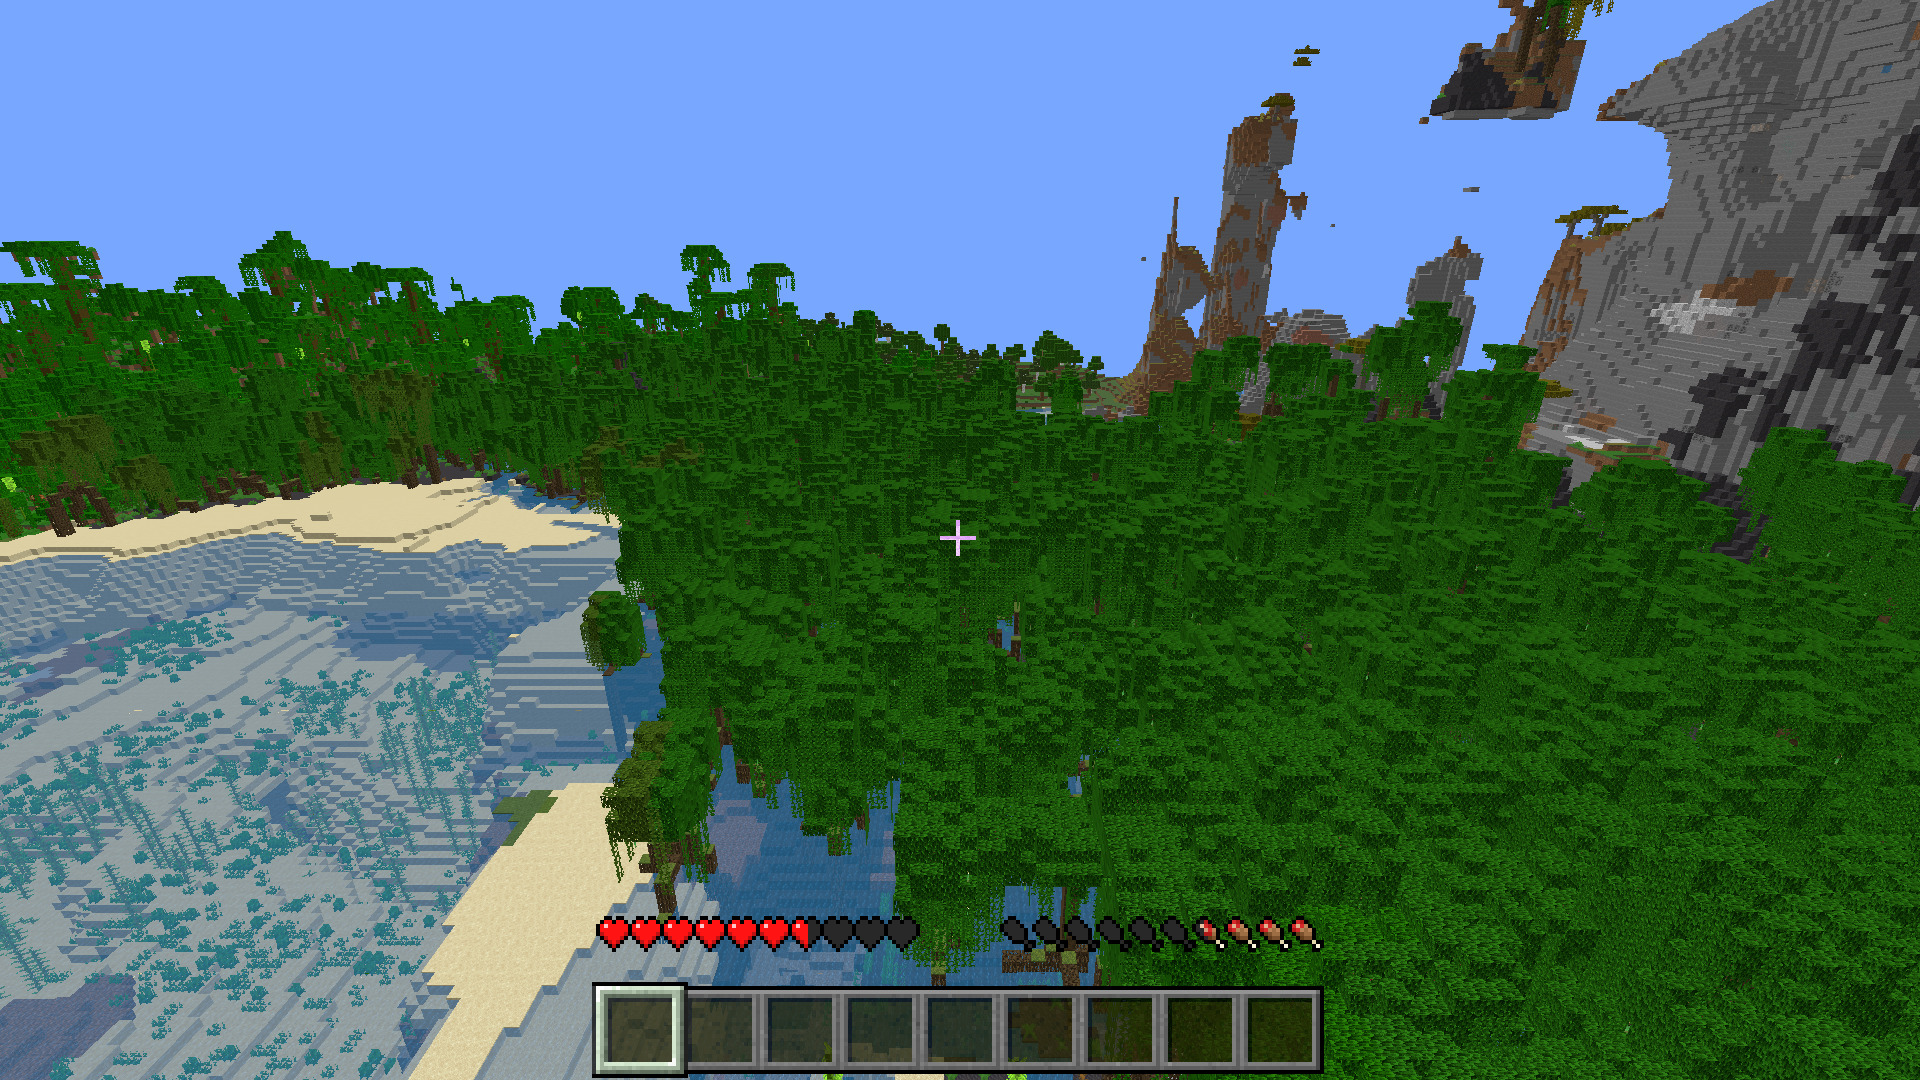
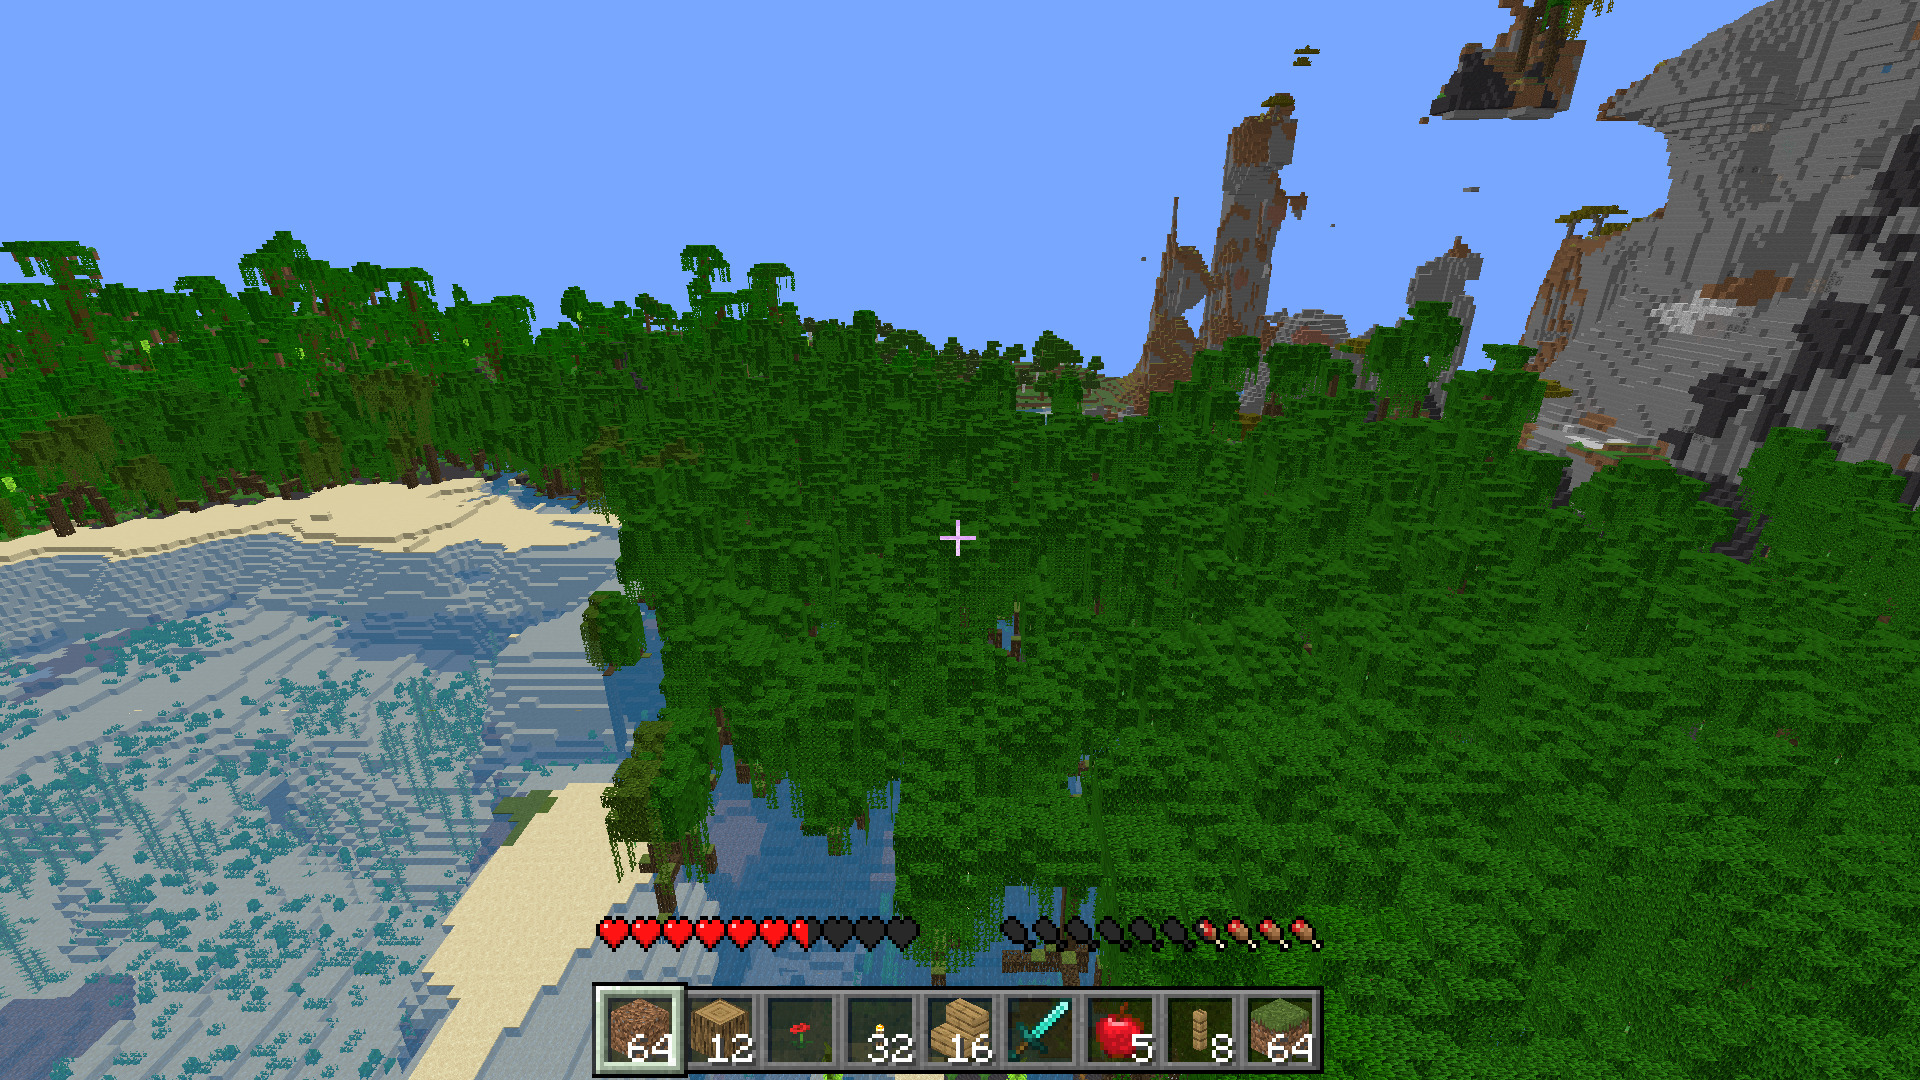
Record Step 9 of M5
Its Results and Deviations 37 to 39 in the plan, where it stands in STATUS, and the hotbar in the README, whose
HUD picture is retaken now that the hotbar has items in it.

diff --git a/docs/STATUS.md b/docs/STATUS.md
@@ -49,10 +49,13 @@ _Last updated: 2026-11-01._
   - **Step 7d is done (2026-10-31):** flipbooks animate (`render/animation.rs`), fluids slope and flow,
     and `--debug-world` holds every block state (`debug_world.rs`).
   - **Step 8 is done (2026-11-01):** the client's own UI (`client/src/ui/`), and the HUD on it: the crosshair,
-    the hotbar, hearts, hunger and air, in the install's own sprites and font. The slots stay empty, and the
-    armour row hidden, until Step 9. Not pushed yet.
-  - **Next:** Step 9, items, icons and the hotbar. The owner's walk, in the debug world and beside the
-    official client, is still to come, and now takes in the HUD.
+    the hotbar, hearts, hunger and air, in the install's own sprites and font. Not pushed yet.
+  - **Step 9 is done (2026-11-01):** the hotbar shows what the player carries (`client/src/inventory/`), with
+    block icons from the world's own mesher (`render/icons.rs`), counts and the held item's name. 1 to 9 and the
+    wheel select, and Q drops, byte for byte as the official client does. Picking waits for Step 10, and armour
+    for Step 12. Not pushed yet.
+  - **Next:** Step 10, aiming at blocks. The owner's walk, in the debug world and beside the official client, is
+    still to come, and now takes in the HUD and the hotbar.
   - **Found by the capture:** three Pumpkin bugs that hit every Bedrock player, the host included.
     They're reported upstream ("Upstream PR candidates").
   - **Checkpoints** after Steps 7, 11, 14 and 16 are go/no-go points: if a phase overruns, the
@@ -92,7 +95,8 @@ _Last updated: 2026-11-01._
     clone in `run/wiki`. It goes after `main`, since its pages name `main`'s commit;
   - the org's page, `https://github.com/LimoniteMC/.github` (`main`), from its clone in
     `run/org-profile`. It goes last, since it claims what `main` has and links to its images.
-- **No upstream PR is open.** The candidates are listed under "Upstream PR candidates".
+- **No upstream PR is open.** The candidates are listed under "Upstream PR candidates". Step 9 adds one: a
+  Bedrock player gets no armour slots or off hand from the server, only container 0's 36 slots.
 
   Ask the owner before pushing anything, and before opening an upstream PR.
 - **Where the repos are:** the owner moved both to the `LimoniteMC` org by 2026-11-01. `.gitmodules`
@@ -243,7 +247,7 @@ picture: a name, a gamemode, health, hunger, a pose as the `P` key logs it, and 
 copy of the list is in `run/step8`. The world is a copy, because the run changes it.
 
 ```bash
-LIMONITE_SHOTS=run/step8/shots-world.txt LIMONITE_SHOTS_ARGS="--data-dir run/step8/shots-world --home run/step8/home --radius 16" CARGO_PROFILE_RELEASE_LTO=false CARGO_PROFILE_RELEASE_CODEGEN_UNITS=16 cargo test --release -p limonite-client --bin limonite-client screenshots -- --ignored --nocapture
+LIMONITE_SHOTS=run/step8/shots-world.txt LIMONITE_SHOTS_ARGS="--data-dir run/step8/shots-world --home run/step8/home --radius 16" LIMONITE_SHOTS_HOTBAR="dirt*64,oak_log*12,poppy,torch*32,oak_stairs*16,diamond_sword,apple*5,oak_fence*8,grass_block*64" CARGO_PROFILE_RELEASE_LTO=false CARGO_PROFILE_RELEASE_CODEGEN_UNITS=16 cargo test --release -p limonite-client --bin limonite-client screenshots -- --ignored --nocapture
 ```
 
 The HUD alone, every piece of it over stripes, goes to `run/sheets`:
@@ -450,8 +454,8 @@ the gitignored folder.
     2026-10-25, cropped below the title bar and saved as 1600 px JPEGs. The before-and-after pair
     is one pose in Limonite and in the official client, taken with the comparison recipe above.
     Retake both once M5 draws light.
-    - **`hud.jpg`** is the owner's pick from the screenshot tool (2026-11-01), kept at 1920 px with no
-      colour subsampling, so that the HUD's pixels stay sharp. Retake it once the hotbar has items.
+    - **`hud.jpg`** is the owner's pick from the screenshot tool (2026-11-01), retaken once the hotbar had
+      items, and kept at 1920 px with no colour subsampling, so that the HUD's pixels stay sharp.
   - **After pushing a changed image,** github.com can show the old one for about 5 minutes, while
     GitHub's raw-file cache expires.
 - **The org's page** (`https://github.com/LimoniteMC`) is `profile/README.md` in the separate

diff --git a/docs/milestones/m5-plan.md b/docs/milestones/m5-plan.md
@@ -1309,6 +1309,15 @@ The questions as they were asked:
 36. **Screenshots with no window** (Step 8; the owner's ask, 2026-11-01): `client/src/shots.rs`, an ignored
     test that runs the real server, client and renderer, and saves frames to `run/screenshots`.
 
+37. **A block's icon is its real mesh** (Step 9), not the three faces of Decision 10. The world's mesher
+    already handles every shape, so an icon meshes the block alone, turns the quads to the inventory's
+    angle, and flattens them, back to front, with no depth buffer. Stairs look like stairs, and it's less code
+    than three faces and a list of exceptions.
+38. **Picking waits for Step 10** (Step 9). A middle click picks the block aimed at, and nothing aims yet.
+39. **Armour waits for Step 12, or for Pumpkin** (Step 9), and not for Step 9 as Deviation 33 said. Container
+    0 is only the 36 main slots, and Pumpkin's Bedrock path sends no armour slots or off hand. The client can
+    know what it put there itself once the inventory screen moves things. It's on the upstream list.
+
 ## Results (filled in during execution)
 
 ### Step 1: what the official client sends (2026-10-26)
@@ -1624,6 +1633,40 @@ by Pumpkin's own reader with no bytes left over.
 - **The owner's walk (checkpoint 1, 2026-10-30):** the physics felt right. The special models were
   broken, which became Step 7b (Deviation 23). The owner hasn't yet confirmed the shape exceptions
   above.
+
+### Step 9: Items, icons and the hotbar (2026-11-01)
+
+- **Commits:** `e02a1a2` (the items and their icons) and `ceae086` (the keys).
+- **The census:** of 2,076 items known, the server can send 1,587. 538 have a picture, 998 draw as blocks, in
+  4,070 quads, and 51 draw the missing texture: spawn eggs for newer mobs and harnesses, whose files aren't
+  among the others, and a few that are never held, such as air.
+- **At startup,** in a release build: 586 sprites in a 1024 × 691 atlas, 157 ms for the whole UI. `PackStack::list`
+  is what keeps that down: it says which pack has each file, so about a thousand pictures don't each ask all 55
+  packs in turn. Icons are meshed in parallel.
+- **The bench** first read 0.87 ms against Step 8's 0.43, which nothing in this step could explain. So the old
+  build and the new took turns, 15 s each, at radius 8:
+
+  | | Round 1 | Round 2 | Round 3 |
+  | --- | --- | --- | --- |
+  | Before the HUD | 0.80 ms | 0.88 ms | 0.72 ms |
+  | Step 9 | 0.82 ms | 0.85 ms | 0.75 ms |
+
+  It was the machine, with other programs busy, and a frame costs about what it did. The two runs below it in
+  Step 8's table are from a quieter machine, so neither table can be set against the other.
+- **Against the real server,** with a temporary check that's since been reverted:
+  - a hotbar filled on the server reached the client as packets, with the same counts on both sides;
+  - Q took 5 dirt to 4 on both sides, once, and dropping a slot's last item emptied it;
+  - selecting slot 2 moved the server's selected slot to 2.
+- **Byte for byte:** Q's transaction matches the official client's. The first try didn't: it needed a falling
+  even id and a line naming the slot it predicts (container 29), which Results, Step 1 had written down.
+- **Checks:** 288 client tests, the headless run's 7 PASS lines, and clippy with the same 2 warnings.
+- **Not verified:** nobody has pressed 1 to 9, the wheel or Q in the window, since the checks call what they call.
+  Nobody has seen the icons beside the official client: their angle and shading are Java's GUI numbers.
+- **Left:**
+  - all potions show one bottle, and an item whose `item_texture.json` key has several pictures shows its first;
+  - no durability bars, no enchantment glint;
+  - a name stays for 3 seconds, then goes, with no fade;
+  - blocks with no item picture show their world model, so a few differ from Bedrock's icons.
 
 ### Step 8: The UI, and the HUD (2026-11-01)
 

diff --git a/README.md b/README.md
@@ -152,8 +152,10 @@ Milestones 0 to 4 are done, and Milestone 5 is under way. Here's what they've bu
   them. Chests, banners, heads and shulker boxes stay simple boxes until entity models arrive.
 - **Textures and fluids that move.** Flipbooks animate, and water and lava slope and flow.
 - **A HUD in the game's own look.** The crosshair, the hotbar, hearts, hunger and air, in the sprites and
-  the bitmap font from your install, blended the way the game blends them. The hotbar stays empty until
-  items arrive.
+  the bitmap font from your install, blended the way the game blends them.
+- **A hotbar with what you carry.** Block icons come from the world's own meshes, so stairs look like stairs,
+  and items from your install's pictures, with counts and the held item's name. 1 to 9 and the wheel select,
+  and Q drops.
 - **A debug world.** `--debug-world` holds every block state in a grid, and you can jump to any of them.
 - **Bedrock-native world state.** Chunks decode straight into Bedrock's own palette format, and
   the client's world equals the server's, block for block and biome for biome. That's checked on
@@ -169,10 +171,10 @@ Milestones 0 to 4 are done, and Milestone 5 is under way. Here's what they've bu
 
 The HUD, over a jungle coast:
 
-<img src="docs/readme/screenshots/hud.jpg" alt="A jungle coast in Limonite, with a crosshair, an empty hotbar, six and a half hearts and three and a half drumsticks" width="100%">
+<img src="docs/readme/screenshots/hud.jpg" alt="A jungle coast in Limonite, with a crosshair, a hotbar of blocks and items, six and a half hearts and three and a half drumsticks" width="100%">
 
-<sub>The sprites and the font come from your install. The health and hunger were set on the server to show
-the half icons, and reached the HUD as packets, as they do in play.</sub>
+<sub>The sprites and the font come from your install. The health, the hunger and the hotbar were set on the
+server for the picture, and reached the HUD as packets, as they do in play.</sub>
 
 The same spot in the same world, at the same pose, in both clients:
 
@@ -246,6 +248,8 @@ flies). Closing the window saves the world.
 | <kbd>Left Shift</kbd> | Sneak, which stops you at edges |
 | <kbd>Left Ctrl</kbd> | Sprint |
 | <kbd>Space</kbd> twice | In creative: fly, or land. Flying, <kbd>Space</kbd> and <kbd>Left Shift</kbd> rise and sink |
+| <kbd>1</kbd> to <kbd>9</kbd>, the wheel | Select a hotbar slot |
+| <kbd>Q</kbd> | Drops one of the held item |
 | <kbd>Esc</kbd> | Releases the mouse |
 | <kbd>P</kbd> | Logs where you are as a `/tp` command |
 
@@ -392,6 +396,7 @@ limonite-client/          # cargo workspace
 ├── client/               # the binary: window, renderer, world state, input, embedded server
 │   └── src/
 │       ├── blocks/       # the block palette, and how each block looks
+│       ├── inventory/    # what the player carries, and what each item looks like
 │       ├── render/       # wgpu device, camera, mesher, textures, terrain shader
 │       ├── ui/           # the client's own UI: sprites, font, strings, layout, and the HUD
 │       └── world/        # Bedrock-native chunks and their decoder
